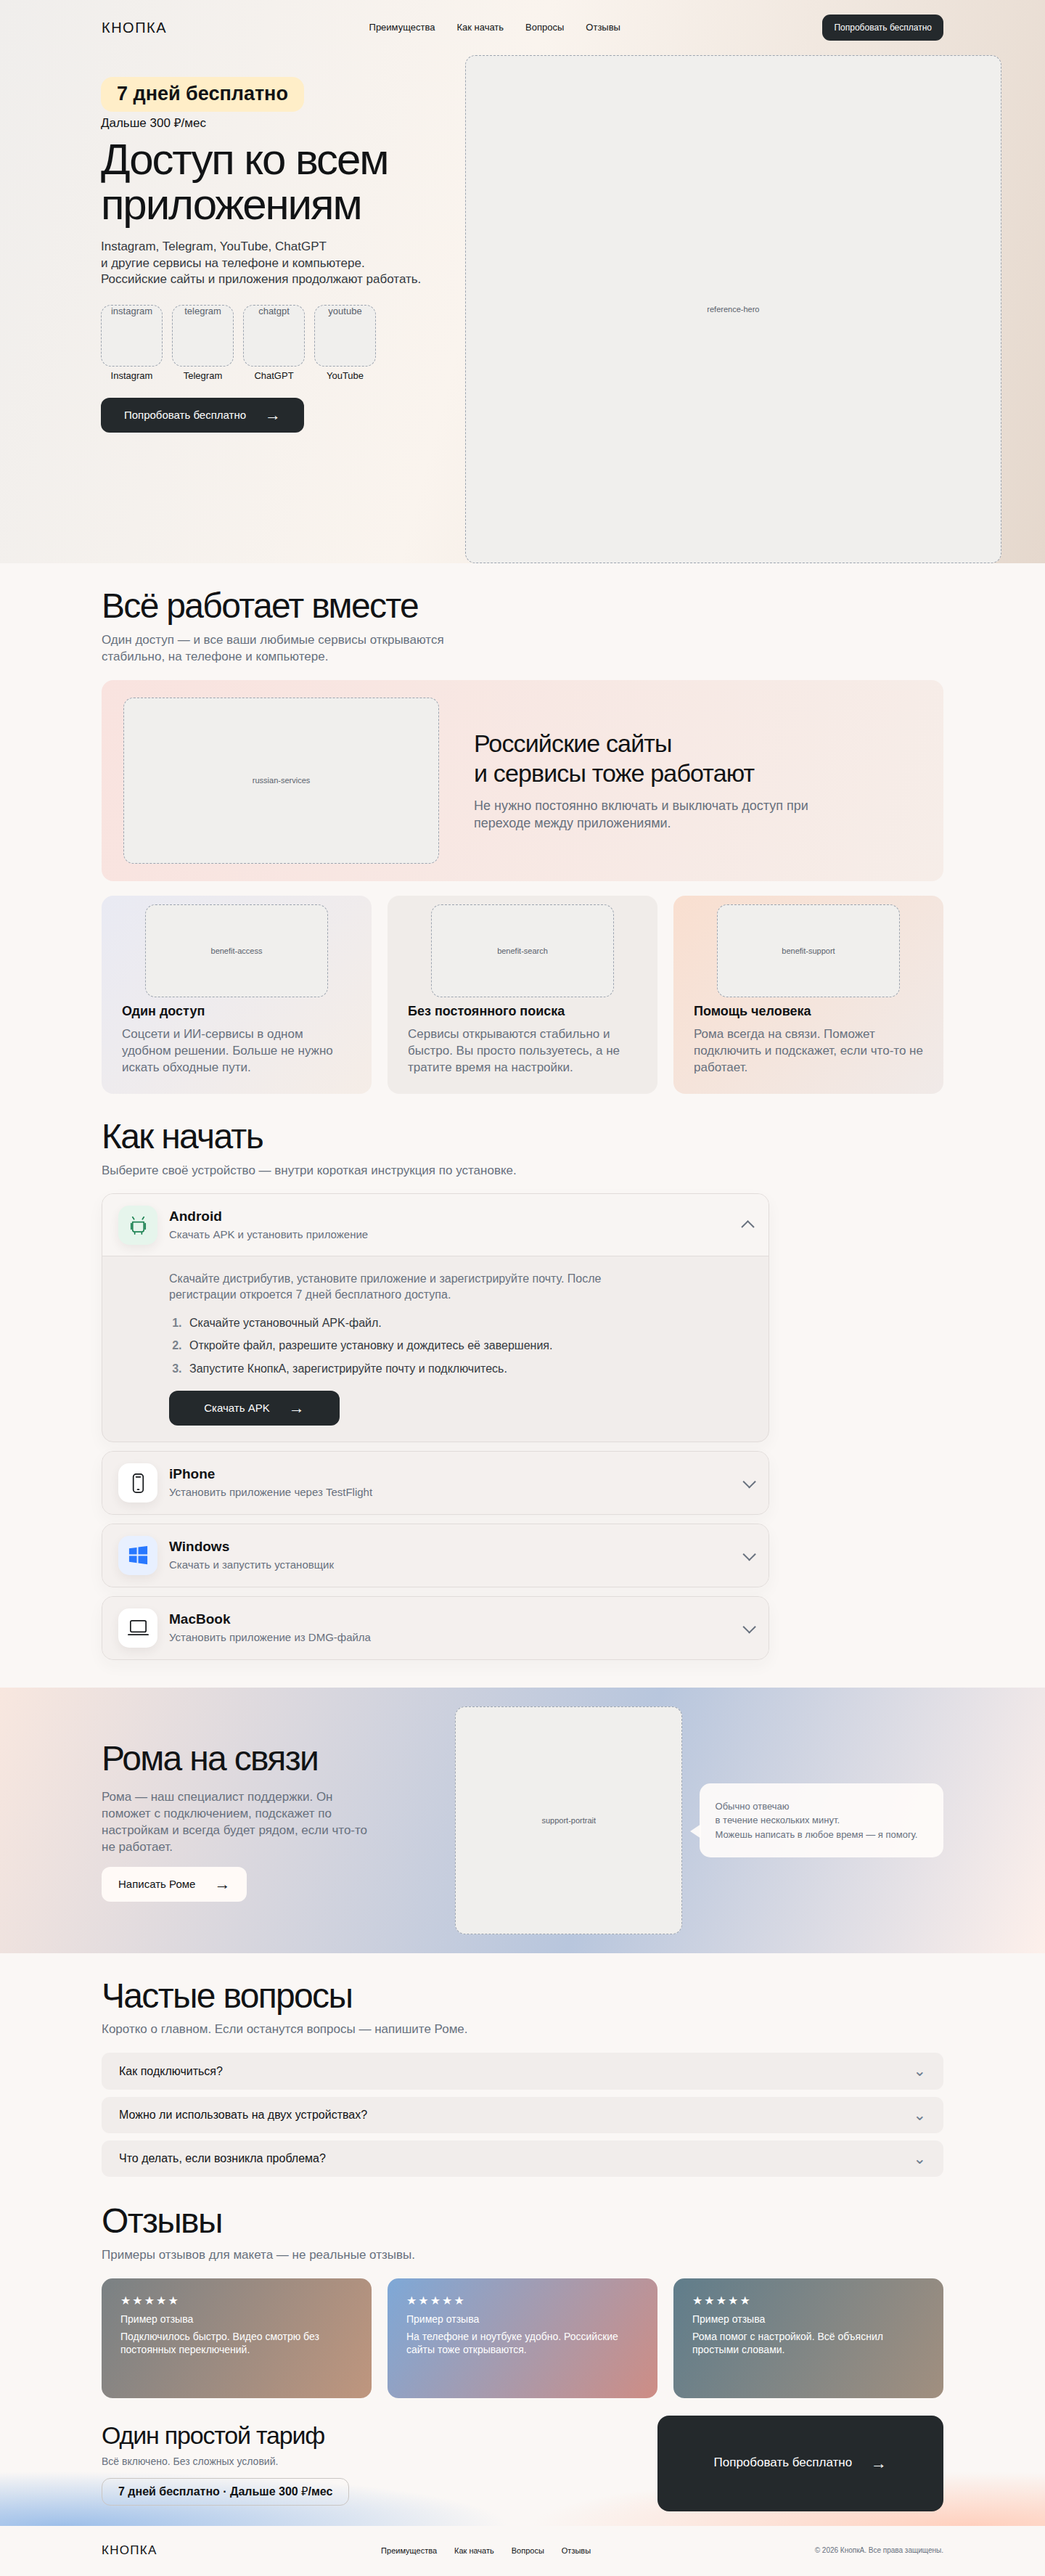
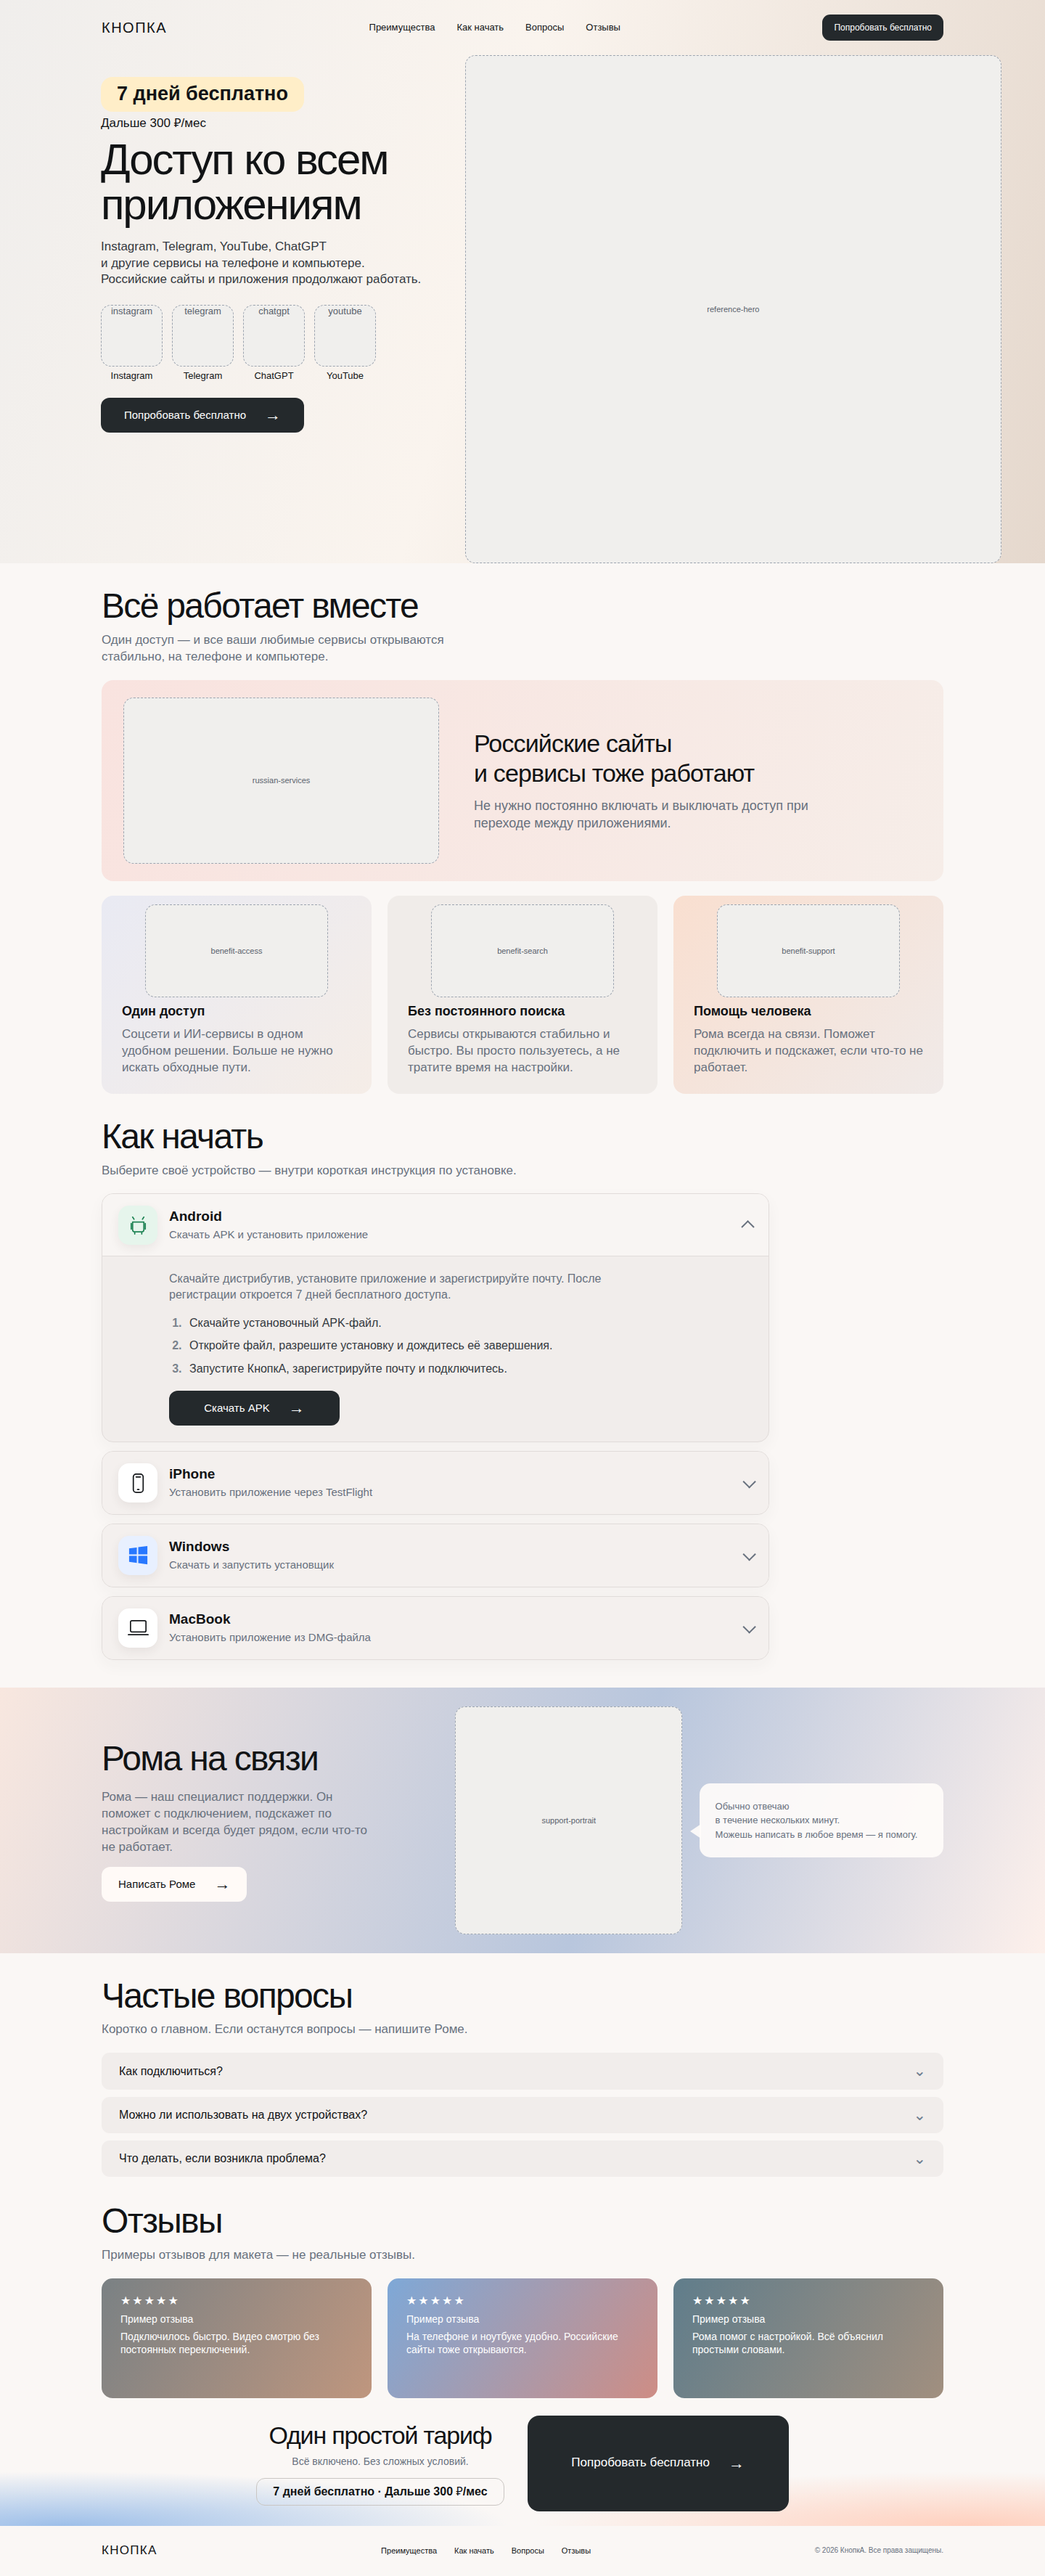
Tighten template tariff layout

Changed region(s): [[0.0938, 0.9298, 0.4688, 0.9608], [0.75, 0.9298, 0.9062, 0.9918], [0.5, 0.9298, 0.6562, 0.9918]]

diff --git a/Design2.0/version-001-mvp/site/template/styles.css b/Design2.0/version-001-mvp/site/template/styles.css
@@ -23,8 +23,8 @@
 .platform-content li{padding-left:6px}
 .platform-content li::marker{font-weight:700;color:#7b838d}
 .platform-download{min-width:235px}
-.tariff-layout{display:grid;grid-template-columns:minmax(0,1fr) minmax(260px,34%);gap:22px;align-items:stretch;text-align:left}
-.tariff-copy{display:flex;flex-direction:column;align-items:flex-start;justify-content:center;padding:8px 0}
+.tariff-layout{display:grid;grid-template-columns:max-content minmax(300px,360px);justify-content:center;gap:32px;align-items:stretch}
+.tariff-copy{display:flex;flex-direction:column;align-items:center;justify-content:center;padding:8px 0;text-align:center}
 .tariff-copy .tariff-price{margin-top:5px}
 .tariff .tariff-cta{align-self:stretch;min-height:100%;margin-top:0;border-radius:16px;font-size:17px}
 @media(min-width:701px) and (max-width:1000px){.media-slot.hero-image{height:460px}.benefits .media-slot{height:85px}.tariff-layout{grid-template-columns:minmax(0,1fr) 230px;gap:16px}.tariff .tariff-cta{font-size:14px}}
